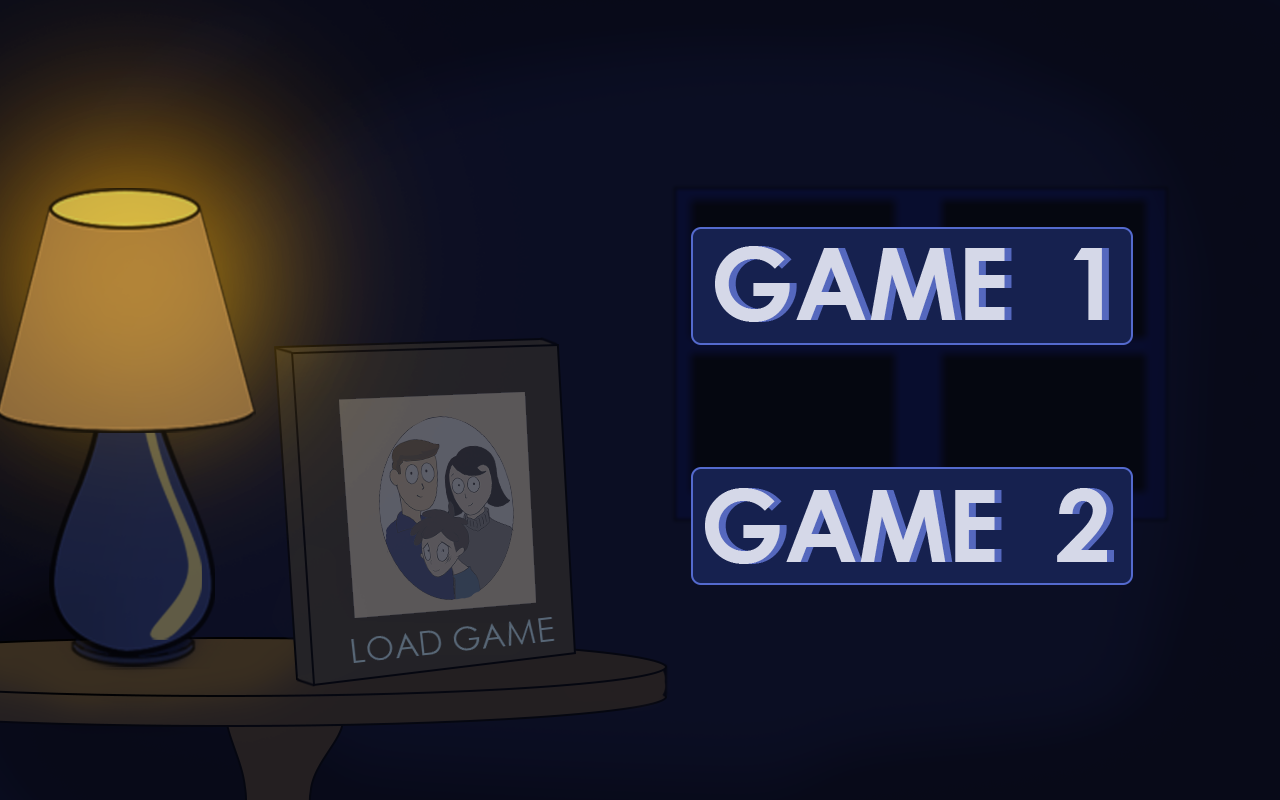
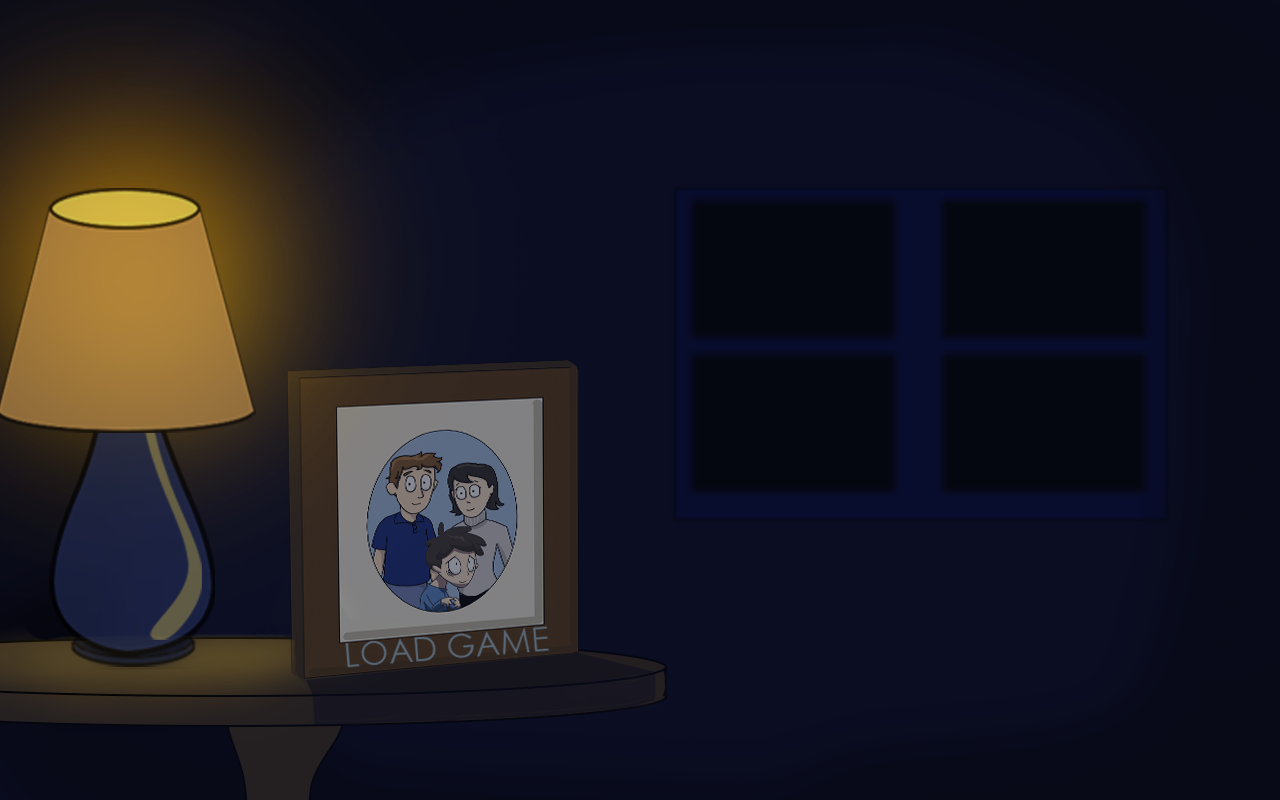
Clase GameInfo para el manejo de guardado y carga de juegos

diff --git a/core/src/mx/itesm/lightsgone/CargarJuego.java b/core/src/mx/itesm/lightsgone/CargarJuego.java
@@ -71,13 +71,15 @@ public class CargarJuego implements Screen {
         btnRegresar.setPosition(0, 0);
         escena.addActor(btnRegresar);
 
-        final TextureRegionDrawable trBtnJuego1 = new TextureRegionDrawable(new TextureRegion(numeroJuegos!=1?empty:juego1Tex));
+        final TextureRegionDrawable trBtnJuego1 = new TextureRegionDrawable(new TextureRegion(numeroJuegos!=1&&numeroJuegos!=3?empty:juego1Tex));
         juego1 = new ImageButton(trBtnJuego1);
         juego1.setPosition(693, 455);
+        escena.addActor(juego1);
 
-        final TextureRegionDrawable trBtnJuego2 = new TextureRegionDrawable(new TextureRegion(numeroJuegos!=2?empty:juego2Tex));
+        final TextureRegionDrawable trBtnJuego2 = new TextureRegionDrawable(new TextureRegion(numeroJuegos!=2&&numeroJuegos!=3?empty:juego2Tex));
         juego2 = new ImageButton(trBtnJuego2);
         juego2.setPosition(693,216);
+        escena.addActor(juego2);
 
 
 
@@ -93,6 +95,7 @@ public class CargarJuego implements Screen {
             public void clicked(InputEvent event, float x, float y) {
                 if(!trBtnJuego1.getRegion().getTexture().equals(empty)){
                     juego.setScreen(new Nivel0(juego,"Juego1.txt"));
+                    Juego.audio.stop();
                 }
             }
         });
@@ -102,6 +105,7 @@ public class CargarJuego implements Screen {
             public void clicked(InputEvent event, float x, float y) {
                 if(!trBtnJuego2.getRegion().getTexture().equals(empty)){
                     juego.setScreen(new Nivel0(juego,"Juego2.txt"));
+                    Juego.audio.stop();
                 }
             }
         });
@@ -112,10 +116,16 @@ public class CargarJuego implements Screen {
         assetManager.load("cargarMenu.png", Texture.class);
         assetManager.load("Sonido2.wav", Music.class);
         assetManager.load("back.png", Texture.class);
+        assetManager.load("Empty.png", Texture.class);
+        assetManager.load("Load1.png", Texture.class);
+        assetManager.load("Load2.png", Texture.class);
         assetManager.finishLoading();
         texFondo = assetManager.get("cargarMenu.png");
         //audio = assetManager.get("Sonido2.wav");
         regresar = assetManager.get("back.png");
+        juego1Tex = assetManager.get("Load1.png");
+        juego2Tex = assetManager.get("Load2.png");
+        empty = assetManager.get("Empty.png");
     }
 
     @Override
